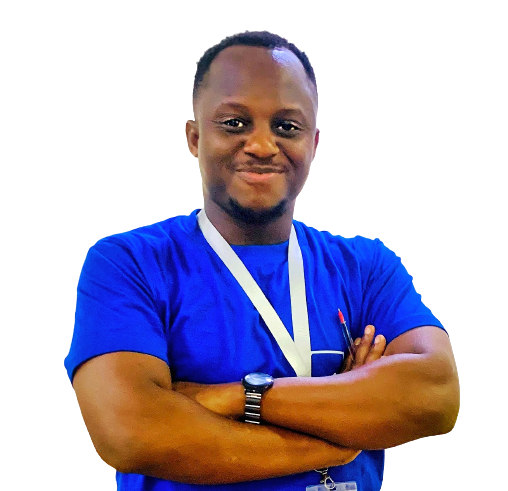
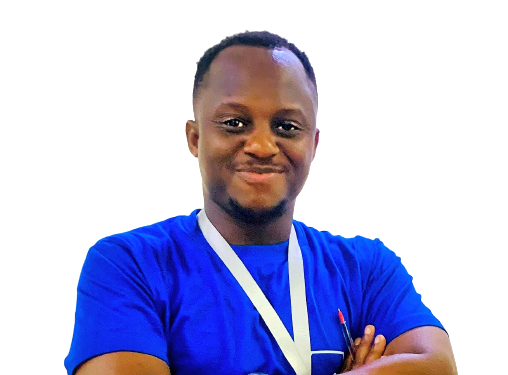
adjusted image

diff --git a/src/component/header/header.css b/src/component/header/header.css
@@ -39,15 +39,21 @@ header{
 /* ===== MY IMAGE ==== */
 .header__profile-image-container{
   background: linear-gradient(var(--color-primary), transparent);
-  width: 22rem;
-  height: 20rem;
   position: absolute;
   left: 50%;
   transform: translateX(-50%);
   margin-top: 4rem;
   border-radius: 12rem 12rem 0 0;
   overflow: hidden;
+  display: flex;
+  align-items: center;
+  justify-content: center;
   /* padding: 5rem 1.5rem 1.5rem 1.5rem; */
+}
+
+.profileImage{
+  width: 300px;
+  height: 
 }
 
 /* ===== SCROLL DOWN ==== */

diff --git a/src/component/header/Header.jsx b/src/component/header/Header.jsx
@@ -17,7 +17,7 @@ const Header = () => {
           <HeaderSocials/>
           
           <div className='header__profile-image-container'>
-            <img src={profileImage} alt="me" />
+            <img src={profileImage} className='profileImage' alt="me" />
           </div>
 
           <a href="#contact" className='scroll__down'>Scroll Down</a>
